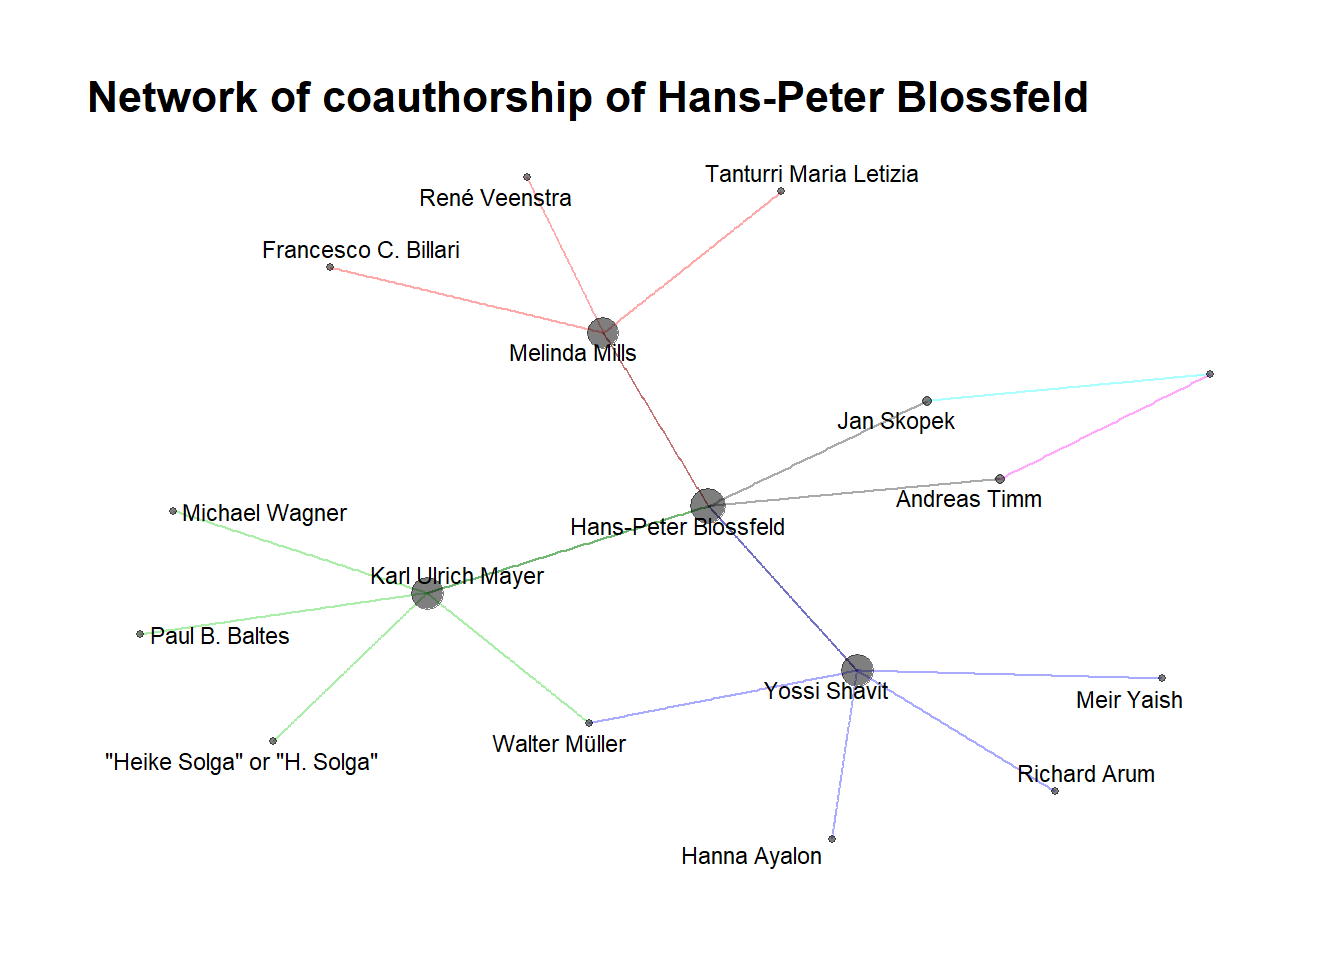
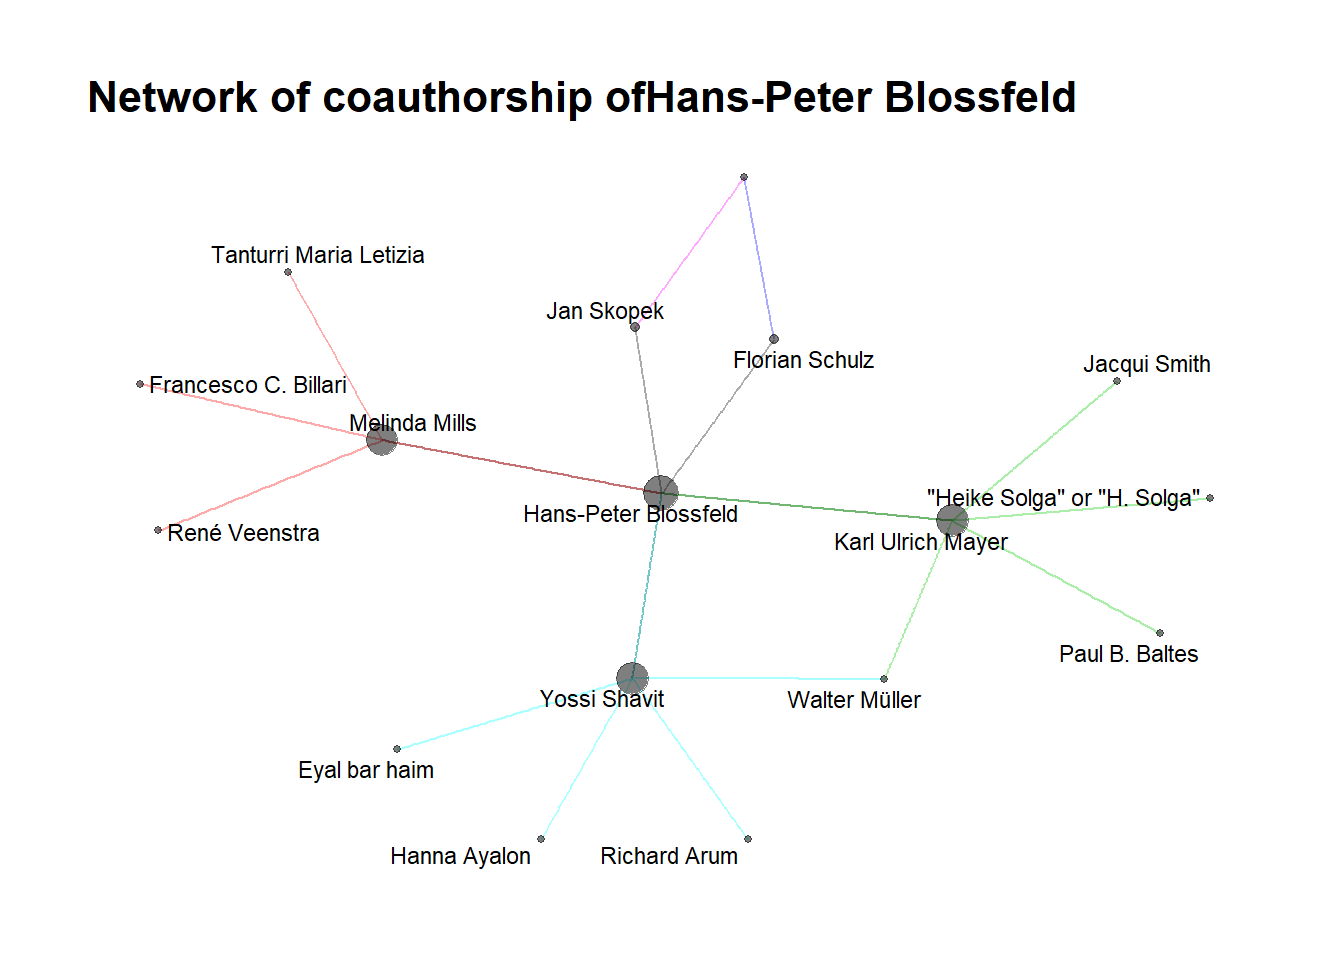
New blog post

diff --git a/blog/2018-06-19-exploring-google-scholar-coauthorship/exploring-google-scholar-coauthorship/index.html b/blog/2018-06-19-exploring-google-scholar-coauthorship/exploring-google-scholar-coauthorship/index.html
@@ -87,20 +87,21 @@ hljs.initHighlightingOnLoad();
 network &lt;- grab_network(&quot;citations?user=F0kCgy8AAAAJ&amp;hl=en&quot;)
 network</code></pre>
 <pre><code>## # A tibble: 21 x 4
-##    author               href            coauthors    coauthors_href       
-##    &lt;chr&gt;                &lt;chr&gt;           &lt;chr&gt;        &lt;chr&gt;                
-##  1 Hans-Peter Blossfeld citations?user~ Melinda Mil~ /citations?user=HX9K~
-##  2 Hans-Peter Blossfeld citations?user~ Karl Ulrich~ /citations?user=iuzu~
-##  3 Hans-Peter Blossfeld citations?user~ Yossi Shavit /citations?user=brfW~
-##  4 Hans-Peter Blossfeld citations?user~ Jan Skopek   /citations?user=Mmo1~
-##  5 Hans-Peter Blossfeld citations?user~ Andreas Timm /citations?user=NnRu~
-##  6 Melinda Mills        /citations?use~ Hans-Peter ~ /citations?user=F0kC~
-##  7 Melinda Mills        /citations?use~ Tanturri Ma~ /citations?user=xN3X~
-##  8 Melinda Mills        /citations?use~ René Veenst~ /citations?user=_9OV~
-##  9 Melinda Mills        /citations?use~ Francesco C~ /citations?user=-JR6~
-## 10 Karl Ulrich Mayer    /citations?use~ Paul B. Bal~ /citations?user=vcOZ~
+##    author       href                 coauthors     coauthors_href          
+##    &lt;fct&gt;        &lt;fct&gt;                &lt;fct&gt;         &lt;fct&gt;                   
+##  1 Hans-Peter ~ citations?user=F0kC~ Melinda Mills /citations?user=HX9KQ5M~
+##  2 Hans-Peter ~ citations?user=F0kC~ Karl Ulrich ~ /citations?user=iuzu9xw~
+##  3 Hans-Peter ~ citations?user=F0kC~ Florian Schu~ /citations?user=MWCt6hQ~
+##  4 Hans-Peter ~ citations?user=F0kC~ Yossi Shavit  /citations?user=brfWXKM~
+##  5 Hans-Peter ~ citations?user=F0kC~ Jan Skopek    /citations?user=Mmo1hFk~
+##  6 Melinda Mil~ /citations?user=HX9~ Hans-Peter B~ /citations?user=F0kCgy8~
+##  7 Melinda Mil~ /citations?user=HX9~ Tanturri Mar~ /citations?user=xN3XevQ~
+##  8 Melinda Mil~ /citations?user=HX9~ René Veenstra /citations?user=_9OVrqM~
+##  9 Melinda Mil~ /citations?user=HX9~ Francesco C.~ /citations?user=-JR6yo4~
+## 10 Karl Ulrich~ /citations?user=iuz~ Paul B. Balt~ /citations?user=vcOZeDg~
 ## # ... with 11 more rows</code></pre>
 <p>The main author here is Hans-Peter Blossfeld, a well known Sociologist. We also see that Melinda Mills is one of his coauthors, so we also have the coauthors of Melinda Mills right after him. <code>grab_networks</code> also has the <code>n_coauthors</code> argument to control how many coauthors you can extract (limited to 20 by Google Scholar). You’ll notice that once you go over 10 coauthors things start to get very messy when we visualize this.</p>
+<pre class="r"><code>plot_coauthors(network, size_labels = 3)</code></pre>
 <p><img src="/blog/2018-06-19-exploring-google-scholar-coauthorship/2018-06-19-exploring-google-scholar-coauthorship_files/figure-html/unnamed-chunk-3-1.png" width="672" /></p>
 <p>Cool eh? We can play around with more coauthors as well.</p>
 <pre class="r"><code>plot_coauthors(grab_network(&quot;citations?user=F0kCgy8AAAAJ&amp;hl=en&quot;, n_coauthors = 7), size_labels = 3)</code></pre>
@@ -169,8 +170,6 @@ network</code></pre>
   
   <span><a class="menu-item" href="/blog">blog</a></span>
   
-  
-  <span><a class="menu-item" href="/blog/2019-01-19-test/test/"> | next &gt;</a></span>
   
   
   <h4 class="text-center"><a class="menu-item" href="/">home</a></h4>

diff --git a/blog/index.html b/blog/index.html
@@ -62,22 +62,6 @@ hljs.initHighlightingOnLoad();
   <ul >
     
     <li class="list-entry">
-      <a class="list-entry-link" href="/blog/2019-01-19-test/test/">Test</a>
-      <p class="meta">
-         JAN 19, 2019 
-        <span class="category">
-        
-        
-        
-        
-        </span>
-      </p>
-      <p class="excerpt">
-      
-      </p>
-    </li>
-    
-    <li class="list-entry">
       <a class="list-entry-link" href="/blog/2018-06-19-exploring-google-scholar-coauthorship/exploring-google-scholar-coauthorship/">Exploring Google Scholar coauthorship</a>
       <p class="meta">
          JUN 19, 2018 
